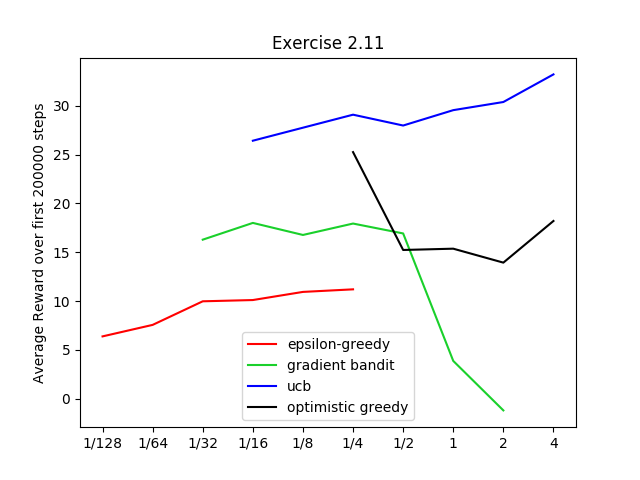
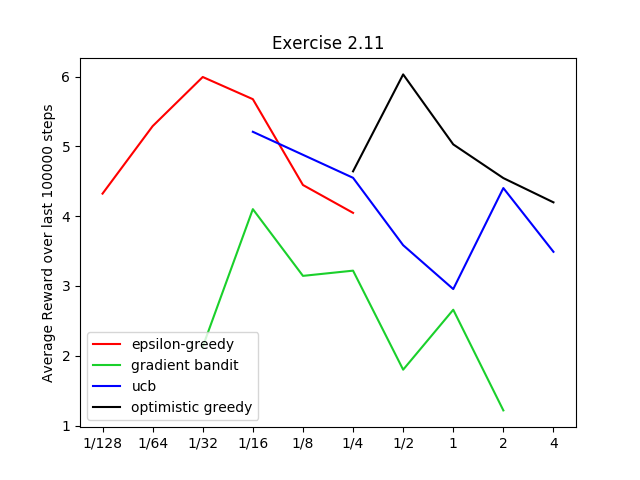
fixed ex2.11, ex3.10->3.16

diff --git a/numpy/2/summary.py b/numpy/2/summary.py
@@ -48,14 +48,14 @@ def apply_method(bandit, n_iterations, method_name, hyperparam, nonstat=False,
 
 
 def plot_current(n_steps, results, iteration_nb=0,
-                 title='Figure 2.6', fn='fig2_6'):
+                 title='Figure 2.6', fn='fig2_6', y_label=''):
   _, ax = plt.subplots()
   ax.set_xscale('log', basex=2)
   x = [2 ** i for i in range(-7, 3)]
   x_name = ([f"1/{2**i}" for i in range(7, 0, -1)] +
             [str(2 ** i) for i in range(3)])
   plt.xticks(x, x_name)
-  plt.ylabel(f"Average Reward over first {n_steps} steps")
+  plt.ylabel(y_label)
   plt.title(title)
   for method, hyperparams in HYPERPARMS.items():
     to_plot = [results[(method, hyper)] / (iteration_nb + 1) for hyper in
@@ -71,16 +71,18 @@ def param_study(n_bandits=2000, n_steps=1000, title='Figure 2.6',
                 start_timestep=np.inf):
   results = {(method, hyper): 0 for (method, hyperparams) in HYPERPARMS.items()
              for hyper in hyperparams}
+  y_label = (f"Average Reward over last {n_steps-start_timestep} steps" if
+             nonstat else f"Average Reward over first {n_steps} steps")
   for t in range(1, n_bandits + 1):
     print(f"{t}/{n_bandits}")
     bandit = Bandit()
     for method, hyperparams in HYPERPARMS.items():
       for hyper in hyperparams:
-        print(f"{method} {hyper}")
         results[(method, hyper)] += apply_method(bandit, n_steps, method, hyper,
                                                  nonstat, start_timestep)[-1]
+        bandit.reset()  # need to reset q values after random walk
     if (t % print_freq == 0):
-      plot_current(n_steps, results, t, title, fn)
+      plot_current(n_steps, results, t, title, fn, y_label)
 
 
 def fig_2_6():

diff --git a/numpy/2/bandit.py b/numpy/2/bandit.py
@@ -5,9 +5,13 @@ class Bandit:
   def __init__(self, k=10, mean=0):
     self.k = k
     self.q = np.random.randn(k) + mean
+    self.old_q = [q_val for q_val in self.q]  # copy
 
   def max_action(self):
     return np.argmax(self.q)
 
   def reward(self, action):
     return np.random.normal(self.q[action])
+
+  def reset(self):
+    self.q = self.old_q

diff --git a/exercises/3/3.md b/exercises/3/3.md
@@ -81,3 +81,53 @@ G_0 = 2 + 0.9 * 70 = 65
 ### 3.10:
 
 \sum_{k=0}{n} \gamma^k = (1 - \gamma^{n+1}) / (1-\gamma) (just multiply both sides by (1-\gamma). It's a sum of positive things inferior to 1/(1-\gamma) so it has a limit. Taking the limit, the sum is 1/(1-\gamma).
+
+### 3.11:
+
+\mathbb{E}[R_{t+1}] = sum_{r \in R} r \sum{s'} \sum{a} p(s', r|s, a) \pi(a | s)
+
+### 3.12: 
+
+v_{\pi}(s) = \sum{a} \pi(a|s) q_{\pi}(s, a)
+
+### 3.13:
+
+q_{\pi}(s, a) = \sum{s'}\sum{r} p(s', r| s, a) (r + \gamma.v_{\pi}(s'))
+
+### 3.14:
+
+0.7 ~= (1/4) * (0.4 - 0.4 + 2.3 + 0.7) = 3/4
+
+### 3.15:
+
+Intervals are important, not the sign. Using 3.8, adding a constant c adds v_c=c/(1-\gamma) to the value of all states.
+
+### 3.16:
+
+In maze running, if the reward for each step is not negative then the agent might want to never finish the task.
+
+### 3.17:
+
+### 3.18:
+
+### 3.19:
+
+### 3.20:
+
+### 3.21:
+
+### 3.22:
+
+### 3.23:
+
+### 3.24:
+
+### 3.25:
+
+### 3.26:
+
+### 3.27:
+
+### 3.28:
+
+### 3.29:

diff --git a/exercises/2/2.md b/exercises/2/2.md
@@ -54,3 +54,9 @@ There is a spike at the 11th action because it finally can select the argmax (an
 
 First case: best expectation of success is 0.5 whatever your policy.
 Second case: 0.55 by doing 2 on A and 1 on B.
+
+### 2.11:
+
+After averaging over 10 bandits (cf. [/plots/ex2.11.png](/plots/ex2.11.png)), it seems that epsilon-greedy has the better performance, then greedy with optimistic initialization, then ucb and finally gradient bandit.
+
+My explanation: ucb exploration decreases over time so cannot really adapt to 100 000 steps of random walk. Epsilon-greedy does better than optimistic greedy because of the exploration. I don't know why gradient bandit completely fails on random walks (compared to the others).
